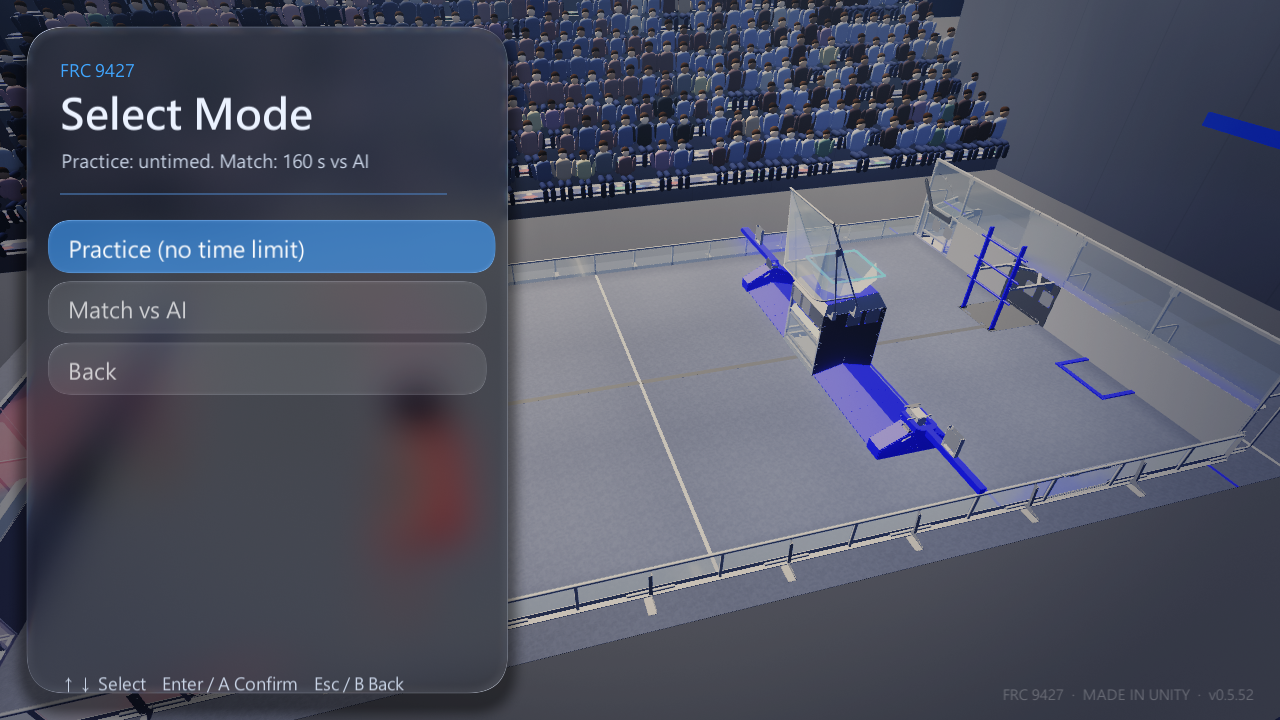
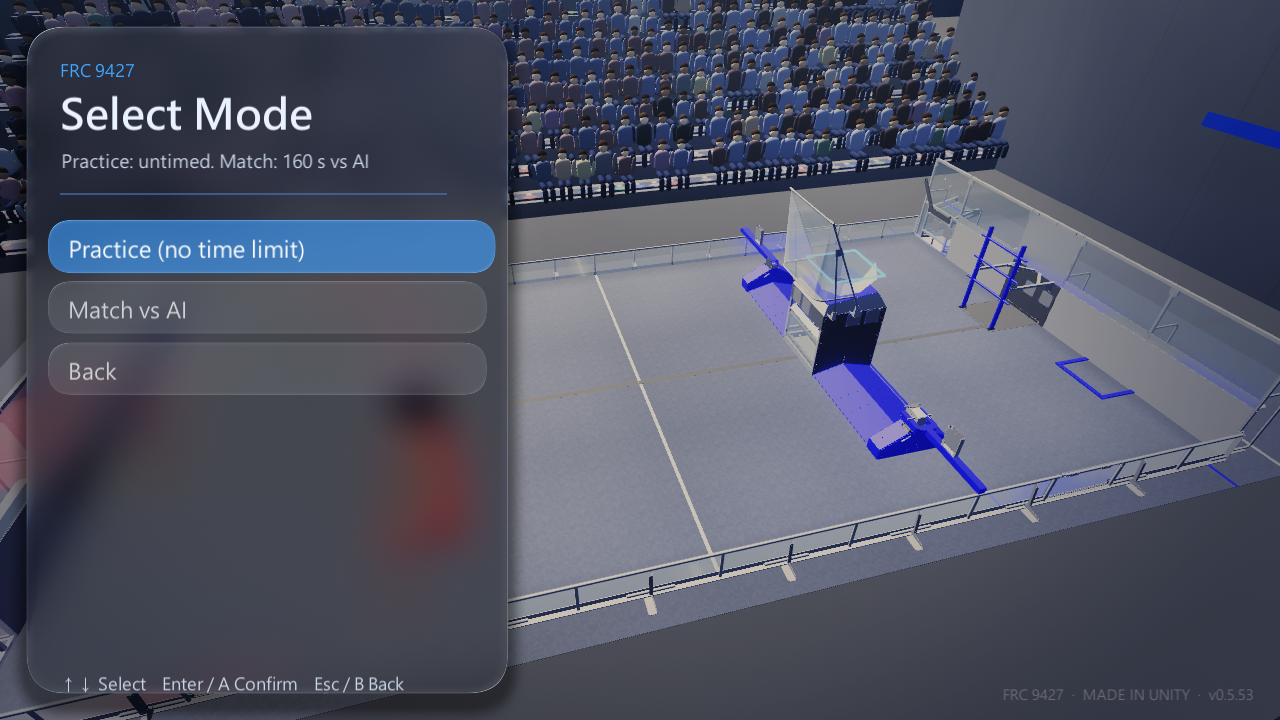
v0.5.53 hub active glow, hide rig in overhead

diff --git a/Assets/Scripts/Sim/VenueExtras.cs b/Assets/Scripts/Sim/VenueExtras.cs
@@ -43,6 +43,7 @@ namespace FrcSim
     // 場館牆面:大型 LED 影片看板(動態流動色彩 + 標語)與天花板垂下的橫幅
     public static class VenueScreens
     {
+        public static Transform RigRoot;   // 上空燈架:高機位(全景/俯視)視角要隱藏,由 ArenaBuilder 掛到 ScoreCube.Overhead 底下
         static Material Font3D(Font f) { var ts = Resources.Load<Shader>("Shaders/FrcText3D"); if (ts == null || f == null) return null; var m = new Material(ts); m.mainTexture = f.material.mainTexture; return m; }
         static void Text(Transform p, string s, Vector3 pos, Quaternion rot, float size, Color c, Font f, int fs = 100)
         {
@@ -93,15 +94,16 @@ namespace FrcSim
             }
             // 場地上空燈架:兩條深色桁架 + 一排發亮燈頭(場館質感,從全景/導播視角看得到)
             {
+                RigRoot = new GameObject("LightRig").transform; RigRoot.SetParent(root, false);
                 var beamMat = new Material(Shader.Find("Standard")); beamMat.SetColor("_Color", new Color(0.05f, 0.055f, 0.065f)); beamMat.SetFloat("_Glossiness", 0.25f); beamMat.SetFloat("_Metallic", 0.6f);
                 var lampMat = new Material(Shader.Find("Unlit/Color")); lampMat.color = new Color(1f, 0.97f, 0.88f);
                 foreach (float bz in new[] { W * 0.22f, W * 0.78f })
                 {
-                    var beam = GameObject.CreatePrimitive(PrimitiveType.Cube); Object.Destroy(beam.GetComponent<Collider>()); beam.name = "LightBeam"; beam.transform.SetParent(root, false);
+                    var beam = GameObject.CreatePrimitive(PrimitiveType.Cube); Object.Destroy(beam.GetComponent<Collider>()); beam.name = "LightBeam"; beam.transform.SetParent(RigRoot, false);
                     beam.transform.position = new Vector3(L / 2f, 11.2f, bz); beam.transform.localScale = new Vector3(L * 0.92f, 0.22f, 0.32f); beam.GetComponent<Renderer>().sharedMaterial = beamMat; beam.GetComponent<Renderer>().shadowCastingMode = UnityEngine.Rendering.ShadowCastingMode.Off;
                     for (int k = 0; k < 9; k++)
                     {
-                        var lamp = GameObject.CreatePrimitive(PrimitiveType.Cube); Object.Destroy(lamp.GetComponent<Collider>()); lamp.name = "Lamp"; lamp.transform.SetParent(root, false);
+                        var lamp = GameObject.CreatePrimitive(PrimitiveType.Cube); Object.Destroy(lamp.GetComponent<Collider>()); lamp.name = "Lamp"; lamp.transform.SetParent(RigRoot, false);
                         lamp.transform.position = new Vector3(L * (0.1f + k * 0.1f), 11.0f, bz); lamp.transform.localScale = new Vector3(0.9f, 0.08f, 0.42f); lamp.GetComponent<Renderer>().sharedMaterial = lampMat; lamp.GetComponent<Renderer>().shadowCastingMode = UnityEngine.Rendering.ShadowCastingMode.Off;
                     }
                 }
@@ -109,6 +111,7 @@ namespace FrcSim
         }
     }
 }
+
 
 
 

diff --git a/Assets/Scripts/Sim/Look.cs b/Assets/Scripts/Sim/Look.cs
@@ -174,11 +174,22 @@ namespace FrcSim
     // LED ring on the HUB rim. Placeholder geometry: a square ring at the opening height; align with the real hex opening if wanted.
     public class HubGlow : MonoBehaviour
     {
-        Material mat;
+        Material mat; Color baseCol; bool isBlue;
+        // HUB 啟動狀態可視化:啟動時隊色微微呼吸發亮,未啟動(輪替中/比賽結束)時暗灰,一眼看出現在哪邊能得分
+        void Update()
+        {
+            if (mat == null) return;
+            bool act = !ScoreManager.ClockOn || (isBlue ? ScoreManager.BlueActive : ScoreManager.RedActive);
+            if (ScoreManager.ClockOn && ScoreManager.Ended) act = false;
+            Color col = act ? baseCol : Color.Lerp(baseCol, new Color(0.35f, 0.36f, 0.4f), 0.65f);
+            float k = act ? 3f + 0.7f * Mathf.Sin(Time.time * 3f) : 0.45f;
+            mat.SetColor("_Color", col); mat.SetFloat("_Intensity", k);
+        }
         public static HubGlow Create(Transform parent, Vector3 hubCenterXZ, float size, float rimY, Color c)
         {
             var go = new GameObject("HubGlow"); go.transform.SetParent(parent, false);
             var hg = go.AddComponent<HubGlow>();
+            hg.baseCol = c; hg.isBlue = c.b > c.r;
             hg.mat = Look.GlowMaterial(c, 3f);
             float s = size - 0.1f, t = 0.035f;
             void Strip(string n, Vector3 off, Vector3 scale)

diff --git a/Assets/Scripts/Sim/ArenaBuilder.cs b/Assets/Scripts/Sim/ArenaBuilder.cs
@@ -64,7 +64,7 @@ namespace FrcSim
 
             Crowd.Build(root, L, W);
             VenueScreens.Build(root, L, W);
-            ScoreCube.Build(root, L, W);   // 桁架 + 懸吊計分板   // 真正的觀眾(約 800 人,GPU instancing)
+            ScoreCube.Build(root, L, W); if (ScoreCube.Overhead != null && VenueScreens.RigRoot != null) VenueScreens.RigRoot.SetParent(ScoreCube.Overhead.transform, true);   // 桁架 + 懸吊計分板   // 真正的觀眾(約 800 人,GPU instancing)
             Box("Ceiling", new Vector3(L / 2f, 18.5f, W / 2f), new Vector3(L + 40f, 0.5f, W + 40f), ceilMat);
             for (int i = 0; i < 6; i++)
                 for (int j = 0; j < 3; j++)
@@ -79,3 +79,4 @@ namespace FrcSim
         }
     }
 }
+

diff --git a/Assets/Scripts/Sim/UpdateCheck.cs b/Assets/Scripts/Sim/UpdateCheck.cs
@@ -17,7 +17,7 @@ namespace FrcSim
     //   找不到差異包(或失敗)時退回「開啟下載頁」,讓使用者手動下載完整版。
     public class UpdateCheck : MonoBehaviour
     {
-        public const string Current = "0.5.52";
+        public const string Current = "0.5.53";
         const string Repo = "frc9427liu-tech/FRC9427-SimApp";
         const string ReleasesApi = "https://api.github.com/repos/" + Repo + "/releases?per_page=30";
         public const string Page = "https://github.com/" + Repo + "/releases/latest";
@@ -235,6 +235,7 @@ Start-Process -FilePath $Exe -WorkingDirectory $Dst
 ";
     }
 }
+
 
 
 
